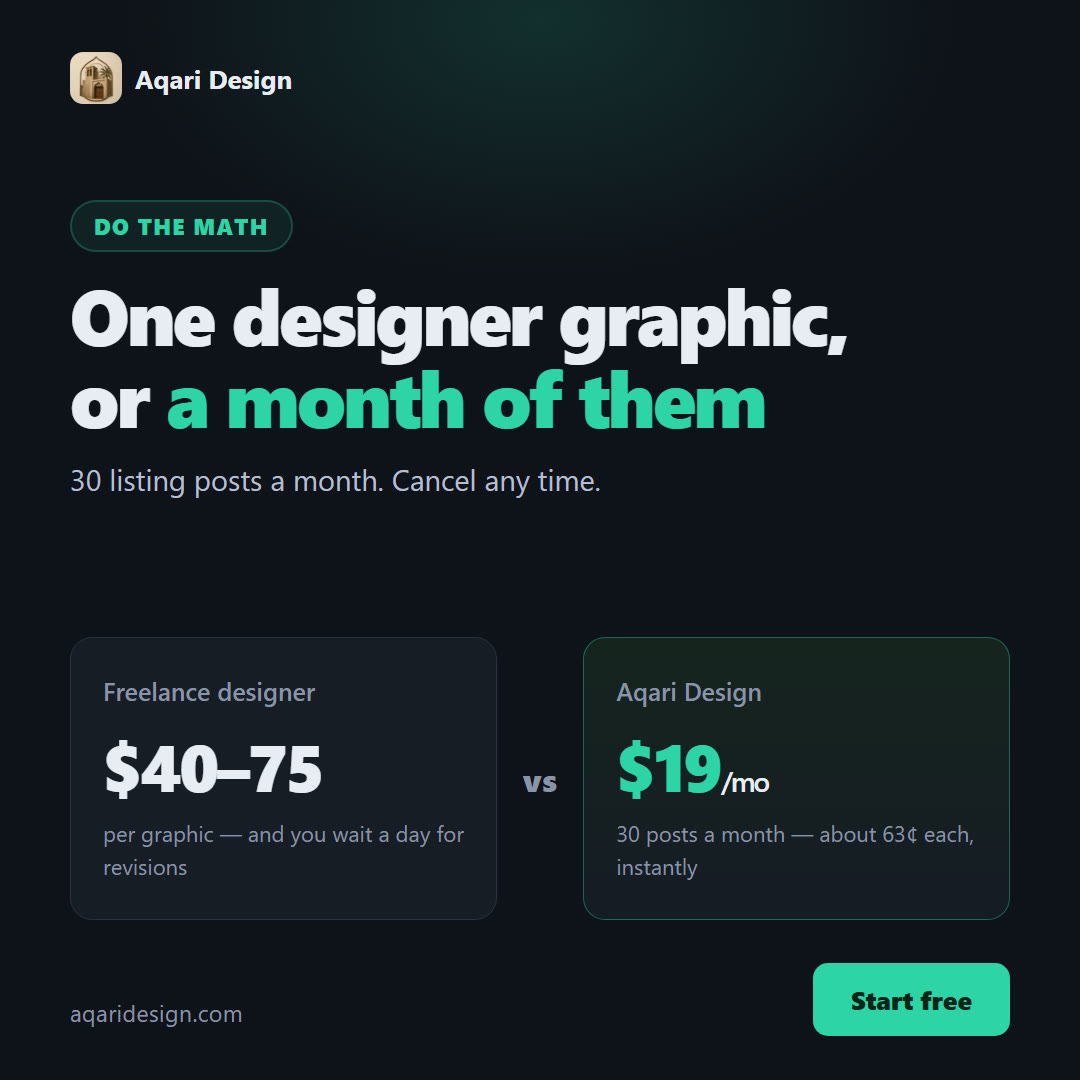
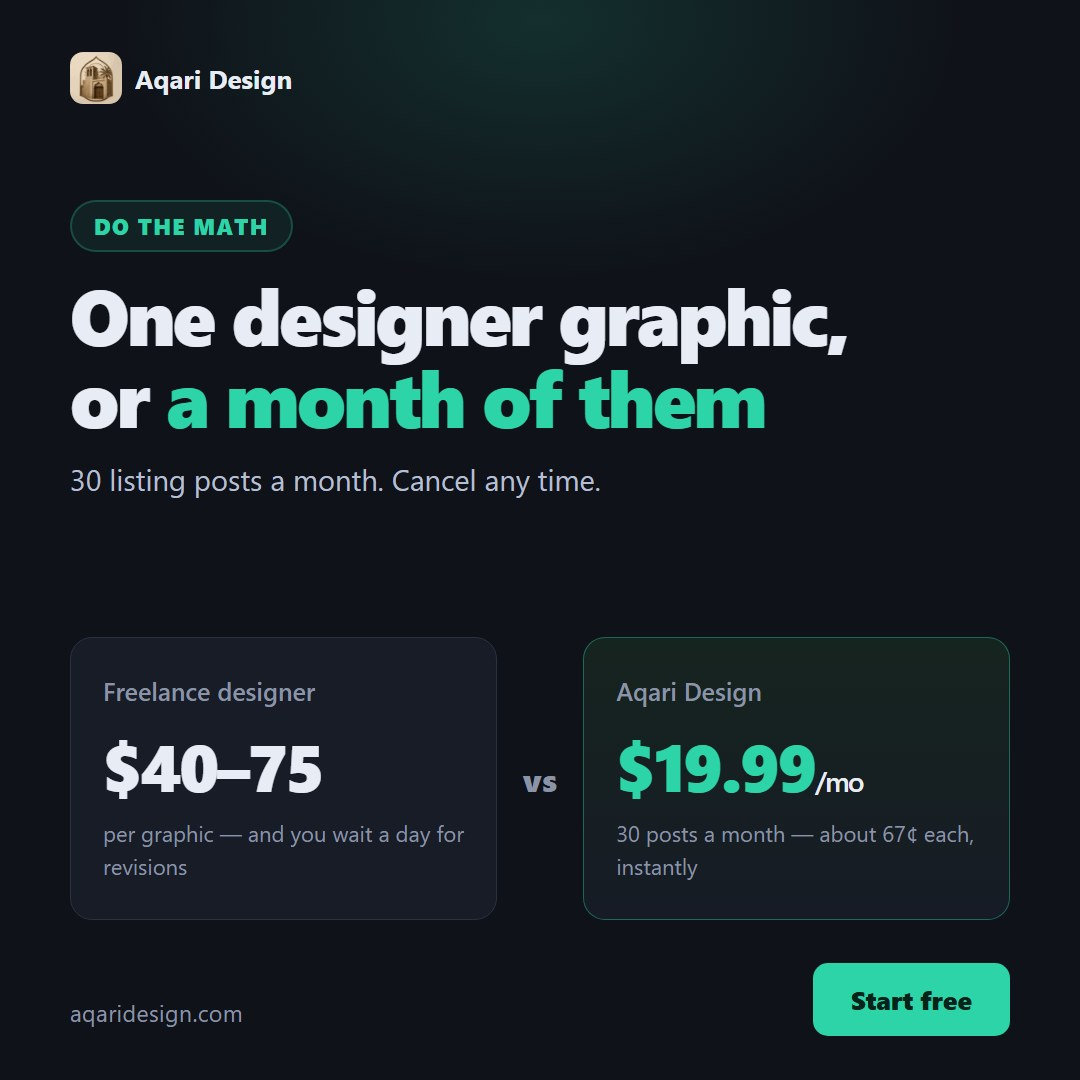
تصحيح سعر النسخة الإنجليزية إلى 19.99 دولاراً في كل موضع
الخطة الجديدة plan_fa9qheRRrrnUO سعرها 19.99 لا 19. السعر كان مكتوباً في
16 موضعاً موزّعة على خمسة ملفات، وترك أي موضع منها يعني تناقضاً يراه العميل
بين ما أعلنّاه وما تطلبه صفحة الدفع — وهو أسوأ أنواع التناقض لأنه يظهر في
لحظة إدخال بطاقته.

المواضع: بطاقة السعر وسؤال «كم تكلف» وسكيما Offer في صفحة الهبوط · زر
الاشتراك ونصوص البوابة ورأس نافذة الدفع وتعليقان في المحرّر · سكيما Offer
ونص الأسئلة والمتن في about · قسم الأسعار والأسئلة وملاحظات محركات الإجابة
في llms.txt · وإعلان المقارنة السعرية ad-5.

وحُسب أيضاً سعر التصميم الواحد: 19.99 ÷ 30 = 0.666 ⇒ صار «≈ $0.67» و«about
67¢ each» بدل 0.63 و63¢. رقم خاطئ في مقارنة سعرية يُقرأ كخداع لا كسهو.

تحقّق آلي: صفر بقايا لسعر 19 المجرّد في الملفات الخمسة (بحث بنمط يستثني
19.99) · JSON-LD يُحلَّل في الصفحات الثلاث · صياغة السكربتات سليمة ·
ad-5 أُعيد توليده وفُحص بصرياً.

diff --git a/en/app.html b/en/app.html
@@ -44,7 +44,7 @@
   "operatingSystem": "Web",
   "inLanguage": "en",
   "image": "https://aqaridesign.com/og-image.png",
-  "offers": { "@type": "Offer", "price": "19", "priceCurrency": "USD", "description": "Monthly subscription including 30 designs" },
+  "offers": { "@type": "Offer", "price": "19.99", "priceCurrency": "USD", "description": "Monthly subscription including 30 designs" },
   "audience": { "@type": "Audience", "audienceType": "Real estate agents" },
   "featureList": [
     "Six listing-post templates built for real estate",
@@ -362,7 +362,7 @@
         <p id="cloudMsg" style="font-size:12px;color:var(--muted);margin-top:8px;min-height:16px"></p>
         <div id="planBox" style="margin-top:10px;padding:10px 12px;border:1px solid var(--border);border-radius:10px;background:var(--panel2)">
           <div id="planLine" style="font-size:12.5px;color:var(--muted)">…</div>
-          <button class="btn btn-primary btn-sm" id="btnUpgrade" style="width:100%;margin-top:8px;display:none">⭐ Subscribe — $19/month</button>
+          <button class="btn btn-primary btn-sm" id="btnUpgrade" style="width:100%;margin-top:8px;display:none">⭐ Subscribe — $19.99/month</button>
         </div>
       </div>
     </div>
@@ -2090,7 +2090,7 @@ track('app_open');
 
 /* ==================== الاشتراك إلزامي: لا خطة مجانية ==================== */
 /* رابط صفحة الدفع لاشتراك Pro — يقبل رابط Whop أو Stripe أو ميسر أو أي بوابة */
-/* USD plan checkout link ($19/month, verified base_currency: usd).
+/* USD plan checkout link ($19.99/month).
    The Arabic edition uses a separate SAR plan in app.html — keep them apart
    so each market pays in its own currency with no FX surprises. */
 /* الدفع المضمّن: نموذج Whop يظهر داخل الموقع بدل نقل العميل إلى whop.com.
@@ -2103,7 +2103,7 @@ track('app_open');
    أسماء الخصائص مستخرجة من سكربت Whop نفسه لا مخمّنة. */
 const PAYMENT_PLAN_ID = 'plan_fa9qheRRrrnUO';
 const PAYMENT_LINK    = 'https://whop.com/checkout/' + PAYMENT_PLAN_ID;  // احتياطي
-/* Monthly download cap for the $19 plan — change this number only here. */
+/* Monthly download cap for the $19.99 plan — change this number only here. */
 const PRO_MONTHLY_DOWNLOADS = 30;
 let subscription = null;
 let downloadsCount = 0;
@@ -2122,9 +2122,9 @@ function requirePro(actionName){
     openAuth();
     const msg = $('authMsg');
     msg.className = 'msg err';
-    msg.textContent = actionName + ' requires an account and an active $19/month subscription.';
+    msg.textContent = actionName + ' requires an account and an active $19.99/month subscription.';
   } else {
-    $('cloudMsg').textContent = '⭐ ' + actionName + ' requires an active subscription — $19/month';
+    $('cloudMsg').textContent = '⭐ ' + actionName + ' requires an active subscription — $19.99/month';
     $('btnUpgrade').scrollIntoView({ behavior: 'smooth', block: 'center' });
   }
   return false;
@@ -2195,7 +2195,7 @@ function showPayGuard(){
   ov.className = 'modal-back open';
   ov.innerHTML =
     '<div class="modal" style="width:450px;max-height:90vh;overflow:auto">'
-    + '<h2 style="margin:0 0 6px">Subscribe — $19/month</h2>'
+    + '<h2 style="margin:0 0 6px">Subscribe — $19.99/month</h2>'
     + '<p style="font-size:13px;color:var(--muted);line-height:1.7;margin-bottom:14px">'
     + '30 designs a month, cancel any time. Billed to '
     + '<b style="color:var(--accent)">' + escAttr(email) + '</b> — locked, so your plan '

diff --git a/en/index.html b/en/index.html
@@ -60,7 +60,7 @@
       "inLanguage": "en",
       "image": "https://aqaridesign.com/og-image.png",
       "publisher": { "@id": "https://aqaridesign.com/#org" },
-      "offers": { "@type": "Offer", "price": "19", "priceCurrency": "USD", "description": "Monthly subscription including 30 designs" },
+      "offers": { "@type": "Offer", "price": "19.99", "priceCurrency": "USD", "description": "Monthly subscription including 30 designs" },
       "audience": { "@type": "Audience", "audienceType": "Real estate agents" },
       "featureList": [
         "Smart Paste: reads a raw listing description and fills every field automatically",
@@ -79,7 +79,7 @@
         { "@type": "Question", "name": "What is Aqari Design?",
           "acceptedAnswer": { "@type": "Answer", "text": "Aqari Design is a browser-based tool that turns your listing details and a photo into a branded social post for Instagram or Facebook in under a minute. It runs on desktop and mobile with nothing to install." } },
         { "@type": "Question", "name": "How much does it cost?",
-          "acceptedAnswer": { "@type": "Answer", "text": "Designing and previewing are free with no account. Downloading and cloud saving are $19 per month and include 30 designs. It renews monthly and you can cancel any time." } },
+          "acceptedAnswer": { "@type": "Answer", "text": "Designing and previewing are free with no account. Downloading and cloud saving are $19.99 per month and include 30 designs. It renews monthly and you can cancel any time." } },
         { "@type": "Question", "name": "Do I need design experience?",
           "acceptedAnswer": { "@type": "Answer", "text": "No. Type the listing details, drop in a photo and pick one of six templates. The layout, type sizing and spacing are handled for you." } },
         { "@type": "Question", "name": "Does it handle advertising compliance?",
@@ -534,7 +534,7 @@ Lone Star Realty</div>
 
     <div class="price-card">
       <span class="tagtop">Less than one listing photo</span>
-      <div class="amount">$19<small> /month</small></div>
+      <div class="amount">$19.99<small> /month</small></div>
       <div class="per">Renews monthly · cancel any time</div>
       <ul class="plist">
         <li><span class="tick">✓</span><span><b>30 designs</b> every month
@@ -558,7 +558,7 @@ Lone Star Realty</div>
       </div>
       <div class="cmp good">
         <h4>Aqari Design</h4>
-        <b>≈ $0.63</b>
+        <b>≈ $0.67</b>
         <small>per graphic, instant and in your hands</small>
       </div>
     </div>

diff --git a/en/about.html b/en/about.html
@@ -45,7 +45,7 @@
       "applicationCategory": "DesignApplication",
       "operatingSystem": "Web",
       "inLanguage": "en",
-      "offers": { "@type": "Offer", "price": "19", "priceCurrency": "USD" }
+      "offers": { "@type": "Offer", "price": "19.99", "priceCurrency": "USD" }
     },
     {
       "@type": "FAQPage",
@@ -58,7 +58,7 @@
         { "@type": "Question", "name": "How does it handle brokerage and license disclosure?",
           "acceptedAnswer": { "@type": "Answer", "text": "There are dedicated fields for brokerage name and license number, plus an optional Equal Housing Opportunity mark. When any of them is filled in, a compliance strip is drawn along the bottom of the design and the artwork above it is resized so nothing is covered. Aqari Design does not provide legal advice and does not verify that a given post meets your state or brokerage rules." } },
         { "@type": "Question", "name": "What does Aqari Design cost?",
-          "acceptedAnswer": { "@type": "Answer", "text": "Designing and previewing are free and need no account. A subscription of 19 US dollars per month unlocks downloading and cloud saving and includes 30 designs per month. It renews monthly and can be cancelled at any time." } },
+          "acceptedAnswer": { "@type": "Answer", "text": "Designing and previewing are free and need no account. A subscription of 19.99 US dollars per month unlocks downloading and cloud saving and includes 30 designs per month. It renews monthly and can be cancelled at any time." } },
         { "@type": "Question", "name": "Is my listing data stored anywhere?",
           "acceptedAnswer": { "@type": "Answer", "text": "Designs render entirely in your browser. If you save a design to your account, the text fields are stored so you can reopen them later. Photos are never uploaded to a server — you re-add the image when you reopen a saved design." } }
       ]
@@ -186,7 +186,7 @@
     <h2>Pricing</h2>
     <p>
       Designing and previewing are free and require no account at all — you can build a complete post and see
-      exactly how it looks before deciding anything. A subscription of <strong>$19 per month</strong> unlocks
+      exactly how it looks before deciding anything. A subscription of <strong>$19.99 per month</strong> unlocks
       downloading and cloud saving and includes 30 designs per month, which is roughly a post a day. The
       subscription renews monthly and can be cancelled at any time; access continues through the end of the
       month already paid for.
